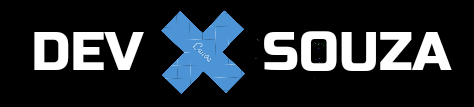
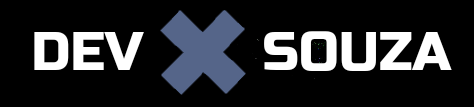
transition - hover
add transition no hover e tbm mudei o icone principal

Changed region(s): [[0.3249, 0.0841, 0.5316, 0.8692]]

diff --git a/index.html b/index.html
@@ -10,7 +10,7 @@
 </head>
 <body>
     <header class="cabecalho">
-        <img class="cabecalho-imagem" src="img/icon-snow2.png" alt="logo">
+        <img class="cabecalho-imagem" src="img/icon-snow4.png" alt="logo">
         <nav class="menu">
             <a class="item" href="">Biografia</a>
             <a class="item" href="">Projetos</a>
@@ -37,7 +37,7 @@
     </main>
     
     <footer class="rodape">
-        <img class="rodape-img" src="img/rodape2.png" alt="">
+        <img class="rodape-img" src="img/rodape1.png" alt="">
     </footer>
 </body>
 </html>

diff --git a/styles/style.css b/styles/style.css
@@ -38,6 +38,7 @@ body{
 
 .item:hover{
 color: #4d94d6;
+transition: 0.3s ease;
 }
 
 .container{
@@ -88,8 +89,8 @@ color: #4d94d6;
     display: block;
 }
 .botao:hover{
-
     background-color:#4d94d6 ;
+    transition: 0.3s ease;
 }
 .botao a:visited, a:link{
     color: black;
